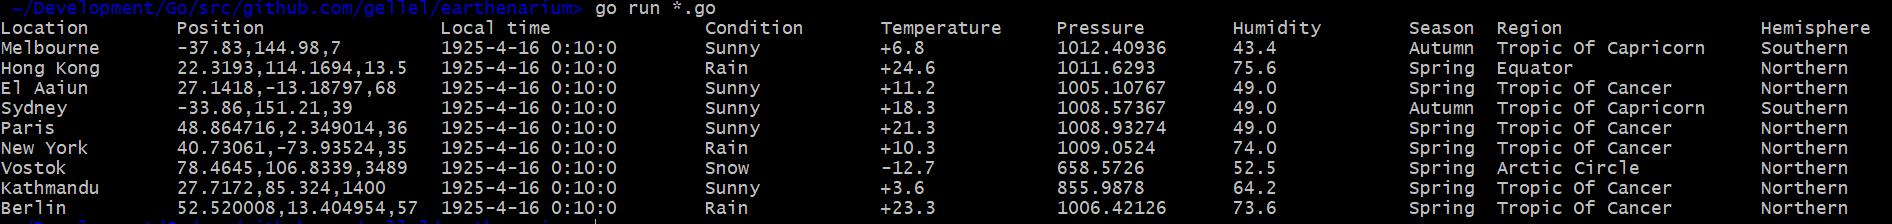
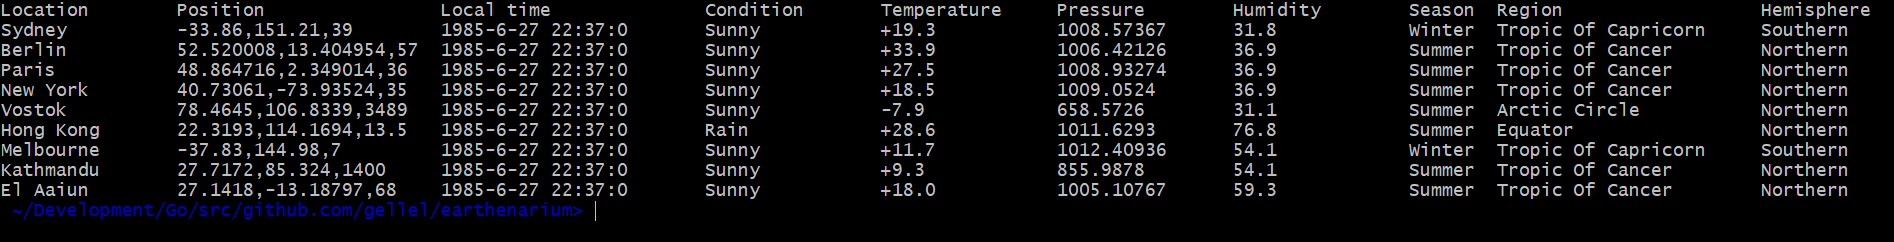
updating seeder

diff --git a/main.go b/main.go
@@ -100,18 +100,26 @@ func main() {
 	year := rand.Intn(now.Year()-1899) + 1899
 	month := rand.Intn(12-1) + 1
 	day := rand.Intn(28-1) + 1
-
+	hour := rand.Intn(24-1) + 1
+	minute := rand.Intn(60-0) + 0
+	min := fmt.Sprintf("%v", minute)
 	m := fmt.Sprintf("%v", month)
 	d := fmt.Sprintf("%v", day)
+	h := fmt.Sprintf("%v", hour)
 
+	if minute < 10 {
+		min = fmt.Sprintf("0%s", min)
+	}
+	if hour < 10 {
+		h = fmt.Sprintf("0%s", h)
+	}
 	if day < 10 {
 		d = fmt.Sprintf("0%s", d)
 	}
 	if month < 10 {
 		m = fmt.Sprintf("0%s", m)
 	}
-
-	timestamp := fmt.Sprintf("%v-%s-%sT00:10:00.000Z", year, m, d)
+	timestamp := fmt.Sprintf("%v-%s-%sT%s:%s:00.000Z", year, m, d, h, min)
 
 	for _, x := range set {
 
